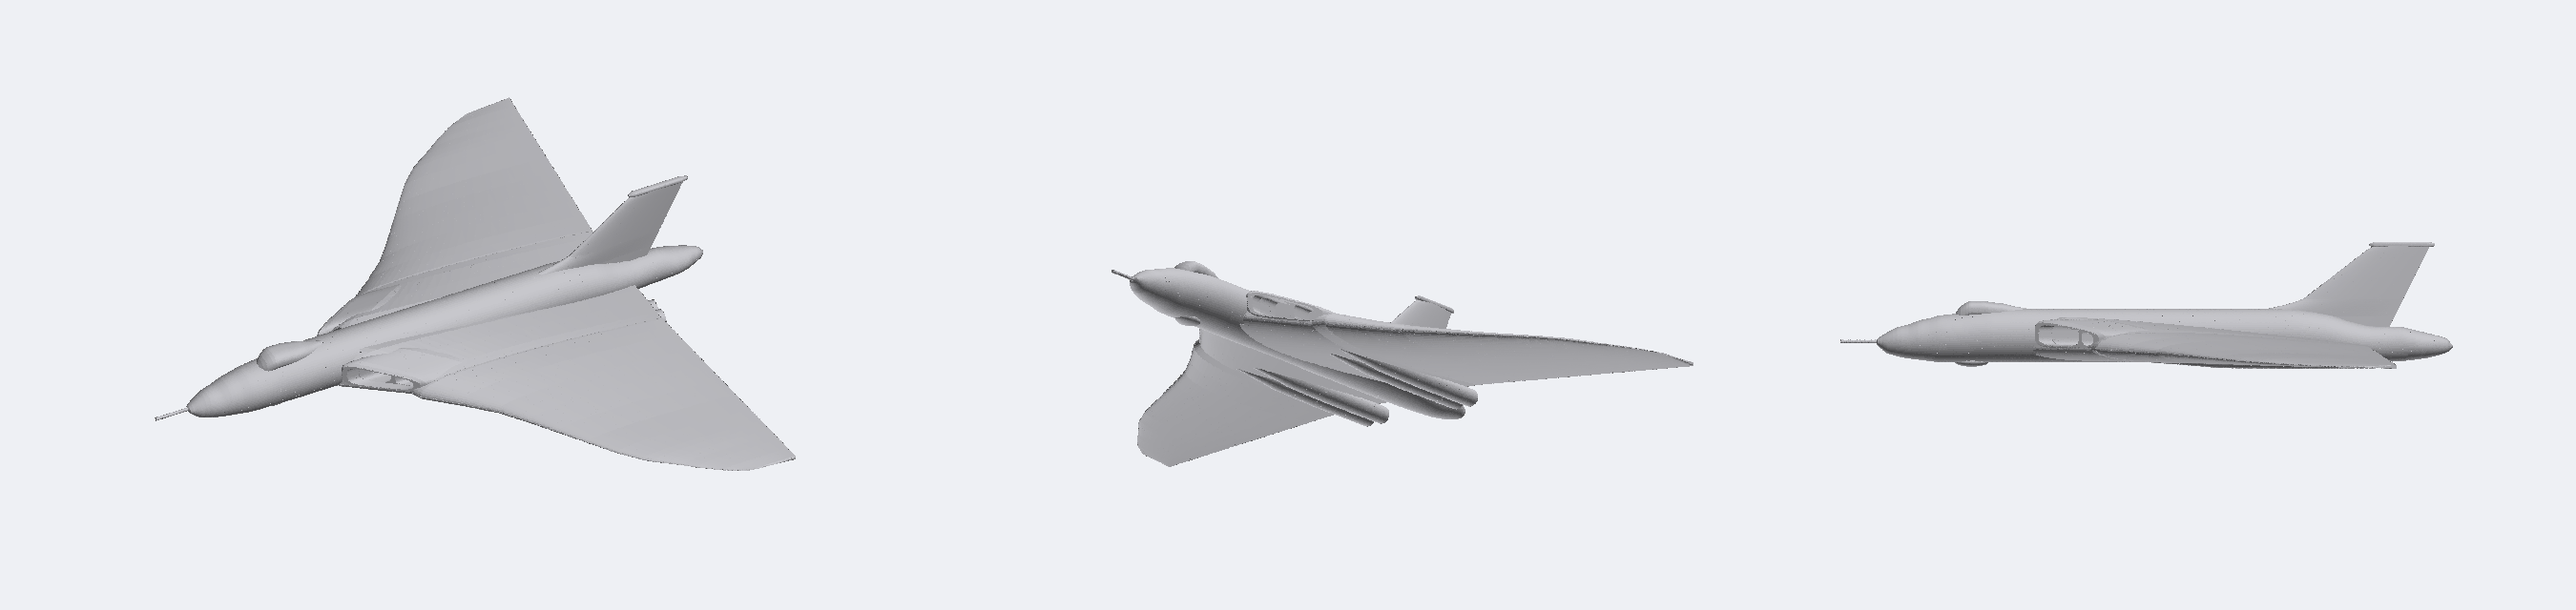
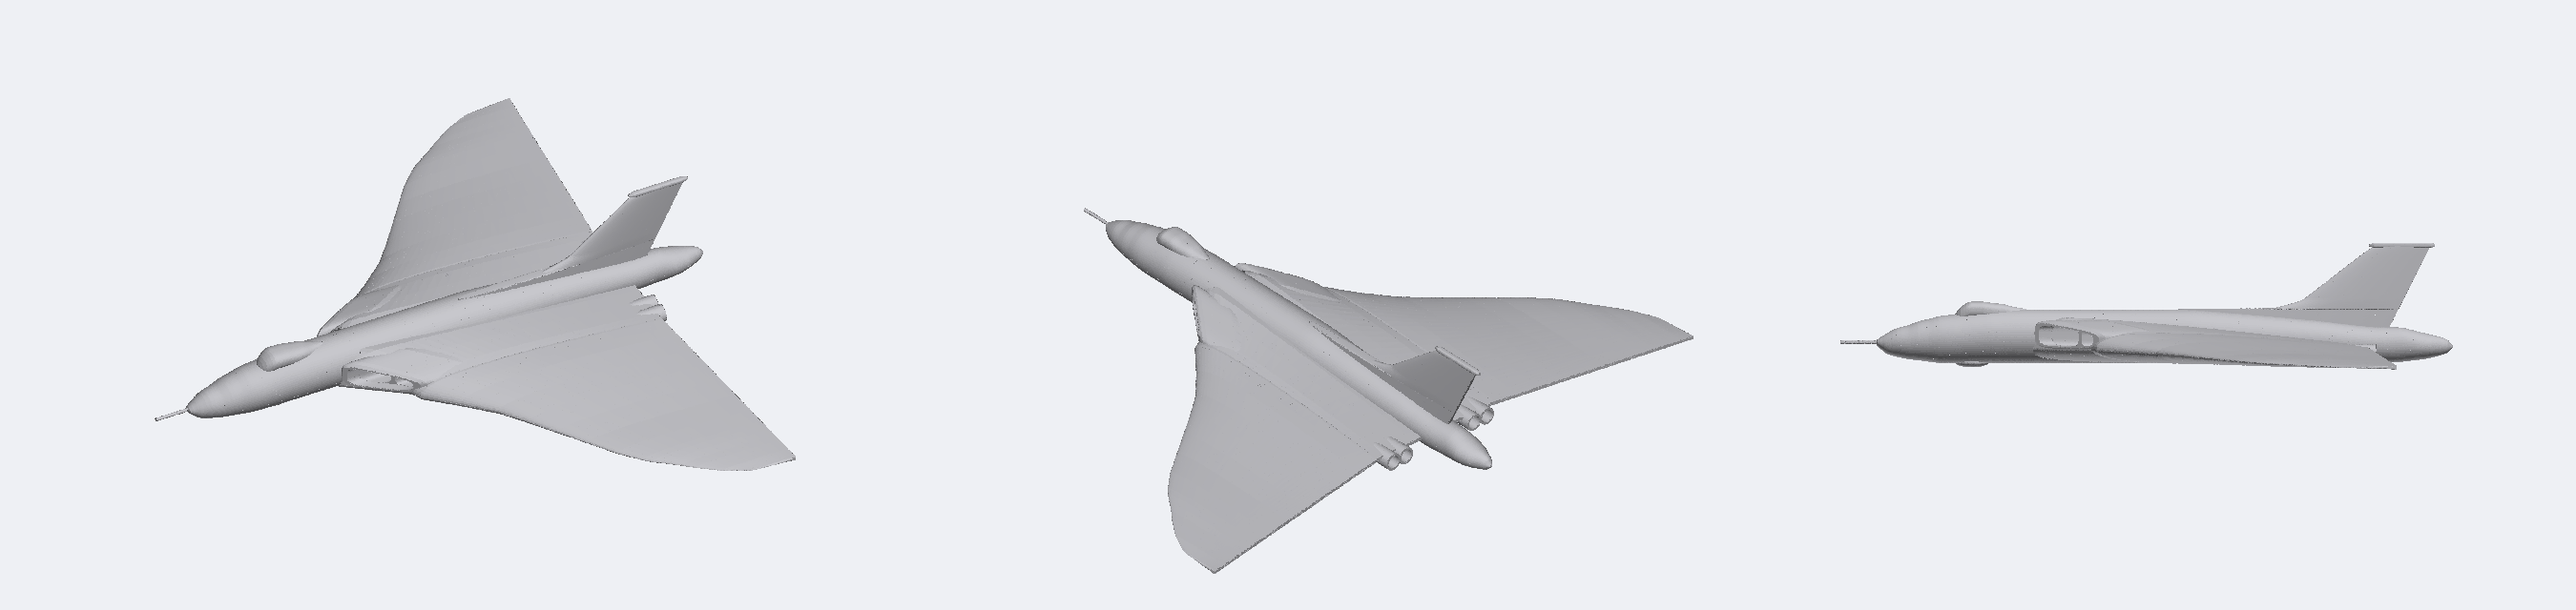
Vulcan v9: tapered rear fuselage, dorsal fin ridge, jet pipes across the trailing edge (user review)
Claude-Session: https://claude.ai/code/session_01FcEUcZegY5CDPSXLcjAK9B

diff --git a/vulcan/cad/vulcan.py b/vulcan/cad/vulcan.py
@@ -57,10 +57,12 @@ FUSE_STATIONS = [
     (74.5, 18.4, 22.3, -15.0, 2.0),
     (86.1, 18.9, 23.2, -15.0, 2.0),
     (108.0, 18.9, 23.7, -15.0, 2.0),
-    (300.0, 18.9, 23.7, -15.0, 2.0),
-    (330.0, 17.5, 20.0, -15.0, 2.0),
-    (350.0, 15.0, 14.0, -15.0, 2.0),
-    (365.0, 13.0, 11.0, -14.8, 2.0),
+    (225.0, 18.9, 23.7, -15.0, 2.0),     # from here the body tapers and its top falls away under the
+    (260.0, 17.8, 21.5, -15.0, 2.0),     # fin's long dorsal ridge, which keeps the top line level
+    (300.0, 16.0, 18.0, -15.0, 2.0),     # (Airfix top view; XH558 Farnborough photo; user review)
+    (330.0, 14.5, 15.0, -15.0, 2.0),
+    (350.0, 13.5, 12.5, -15.0, 2.0),
+    (365.0, 12.8, 11.0, -14.8, 2.0),
     (383.9, 11.6, 10.5, -14.2, 2.0),
     (395.5, 11.6, 8.0, -12.9, 2.0),
     (401.3, 10.6, 6.6, -12.2, 2.0),
@@ -134,9 +136,10 @@ INTAKE_TAPER = (0.55, -4.5)     # at the outer end the lip is this fraction as t
 # Jet pipes: four, in pairs. Their fairings run under the wing from mid-chord (the side
 # view's lowest line, about 3.5 mm below the belly) and the nozzles stand 6 mm behind the trailing edge.
 JET_Y = (33.4, 45.9)
-JET_Z = -12.3
-JET_PROFILE = [(197.0, 1.5), (252.0, 6.0), (302.0, 6.7), (366.5, 6.2)]   # x, radius
-JET_BORE = (5.1, 10.0)          # radius, depth
+JET_Z = -7.5                    # the pipes straddle the trailing edge: their tops show as humps on the
+                                # upper surface over the last 40 mm, their undersides as the long fairings below
+JET_PROFILE = [(197.0, 1.5), (252.0, 5.0), (302.0, 6.3), (366.5, 6.5)]   # x, radius
+JET_BORE = (5.4, 10.0)          # radius, depth
 
 # Fin: leading and trailing edge lines (x at z), symmetric section, rounded front top corner.
 FIN_LE = ((303.6, 23.7), (362.5, 69.0))
@@ -144,6 +147,8 @@ FIN_TE = ((376.0, 11.0), (406.0, 70.6))
 FIN_Z = (5.0, 72.0)
 FIN_TC = (0.08, 0.08)
 FIN_TIP_ROUND = (7.0, 5.0)
+FIN_RIDGE = (24.5, 222.0)       # below this z the fin runs forward to this x as a low dorsal ridge on the
+                                # falling body (the ochre-tipped wedge in the Airfix top view)
 FIN_FILLET = (31.7, 8.0, 17.0, 1.6)   # below this z the leading edge sweeps forward into the spine:
                                 # over this height, by this much at the spine, with this exponent (Airfix side view)
 FIN_CAP = [(362.0, 0.5, 71.6, 70.6), (366.0, 2.0, 72.8, 69.6), (404.0, 2.0, 72.8, 69.6),
@@ -383,7 +388,7 @@ def fin():
     (xt0, zt0), (xt1, zt1) = FIN_TE
     span, cut = FIN_TIP_ROUND
     rings = []
-    zs = np.r_[np.linspace(FIN_Z[0], FIN_Z[1] - span, 40), FIN_Z[1] - span * (1 - np.sin(np.linspace(0.15, 1, 9) * np.pi / 2))]
+    zs = np.r_[np.linspace(FIN_Z[0], FIN_RIDGE[0] - 0.15, 8), np.linspace(FIN_RIDGE[0] + 0.15, FIN_Z[1] - span, 34), FIN_Z[1] - span * (1 - np.sin(np.linspace(0.15, 1, 9) * np.pi / 2))]
     for z in zs:
         le = xl0 + (z - zl0) * (xl1 - xl0) / (zl1 - zl0)
         te = xt0 + (z - zt0) * (xt1 - xt0) / (zt1 - zt0)
@@ -391,7 +396,9 @@ def fin():
         le += cut * (1 - math.sqrt(max(0.0, 1 - u * u)))
         zf, hf, df, kf = FIN_FILLET
         le0 = le
-        if z < zf:                                   # root fillet: longer chord, same thickness
+        if z < FIN_RIDGE[0]:                         # dorsal ridge
+            le = FIN_RIDGE[1]
+        elif z < zf:                                 # root fillet: longer chord, same thickness
             le -= df * min(1.6, (zf - z) / hf) ** kf
         sec = aerofoil(FIN_TC[0] * (te - le0) / (te - le), te - le, WING_TE_T)
         rings.append(np.c_[le + sec[:, 0], sec[:, 1], np.full(len(sec), z)])

diff --git a/vulcan/README.md b/vulcan/README.md
@@ -11,11 +11,13 @@ Avro Vulcan B.2 at 1:96: 352 mm span, 317 mm long (336 mm with the refuelling pr
 
 ![shape in grey](docs/shape_grey.png)
 
-> **Status: v8: shape fitted to the Airfix A12011 plan and side views, and split into shells.** No joints, colour or print file yet. Not yet split into parts; no joints, colour or print file.
+> **Status: v9: shape fitted to the Airfix A12011 plan and side views, and split into shells.** No joints, colour or print file yet. Not yet split into parts; no joints, colour or print file.
 
 Intakes and wing root (v7, user review): one letterbox mouth a side, tall at the fuselage (about 60% of its depth, from the XH558 photos) and tapering outboard, with the wall between the two engine ducts set back 9 mm. Over the engines the wing's top is not an aerofoil hump: it reaches its crest just behind the intake lip and runs almost straight to the trailing edge, so it meets the fuselage on a straight line, as in the Airfix side view (`WING_ROOT_UP`, `WING_CREST`). Each intake's inner wall stands 2 mm (1:72) off the fuselage, with an open slot between them running 16 mm back from the lip (v8, user: "almost a separation from the fuselage"). The fin's leading edge sweeps forward into the spine (`FIN_FILLET`).
 
 ![intakes](docs/intakes_v3.png)
+
+Rear fuselage (v9, user review against the XH558 Farnborough photo and the Airfix top view): the body tapers and its top falls away from x 225 (1:72), under a long dorsal ridge that is part of the fin and keeps the top line level (`FIN_RIDGE`); the fin so starts 80 mm further forward than its main leading edge. The jet pipes sit across the trailing edge (`JET_Z`), so their tops show as humps on the upper surface over the last 40 mm.
 
 ## Parts (v6: first split, no joints yet)
 

diff --git a/LESSONS.md b/LESSONS.md
@@ -482,3 +482,5 @@ Thin white markings from the X2D's second nozzle came out rough. Thicker layers 
 - **A silhouette sheet traces by machine.** Row and column extents of a black silhouette give the leading edge, trailing edge and body lines directly, with no hand reading (`common/tools/silhouette.py` does the same for shaded drawings). Views on one sheet still need their own scales: the head-on view was 12% taller than the side view.
 - **Ruled lofts as point rings in manifold3d** (`ring_loft` in `vulcan/cad/vulcan.py`) need no CadQuery: the whole airframe builds in about 10 s, and sheared rings make a fairing along a swept edge (the intake lips).
 - **A thick delta's root is not an aerofoil.** Lofting the Vulcan's inboard wing as a NACA section put a hump where the wing meets the fuselage (user: "a curve I don't see in the references"). Over the engines the top crests just behind the intake lip and runs straight to the trailing edge. Look at where a wing's top meets the body in the side view before choosing its section.
+- **Read the plan view for where a fin starts.** The Vulcan's side view shows a level top line up to the fin's leading edge, so I ended the fin there. The top view shows the fin running 80 mm further forward as a thin ridge, with the body falling away and narrowing beneath it. A level top line in a side view can be two parts.
+- **Engines buried in a wing still show.** The jet pipes straddle the trailing edge: put them at its height, not below the wing, so their tops rise through the upper skin.
